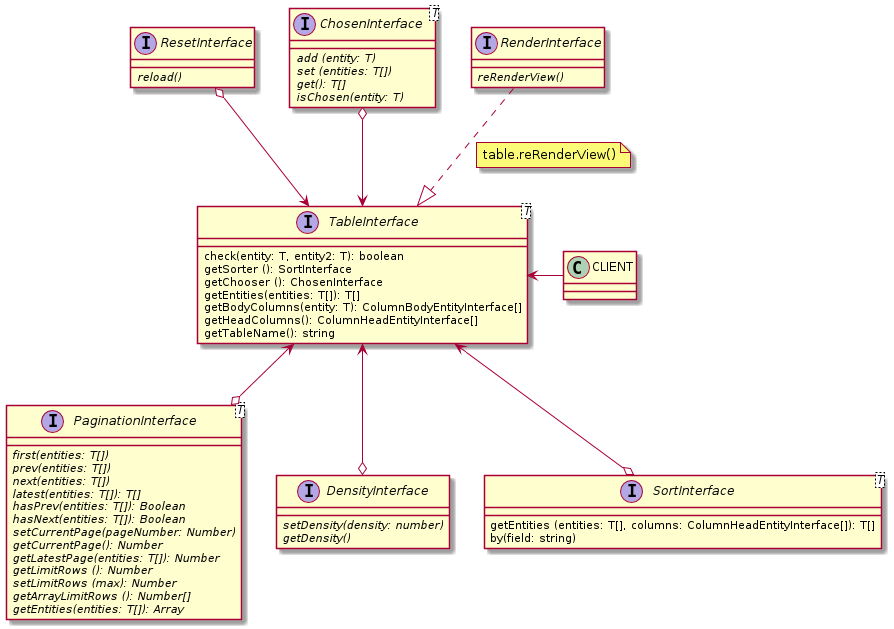
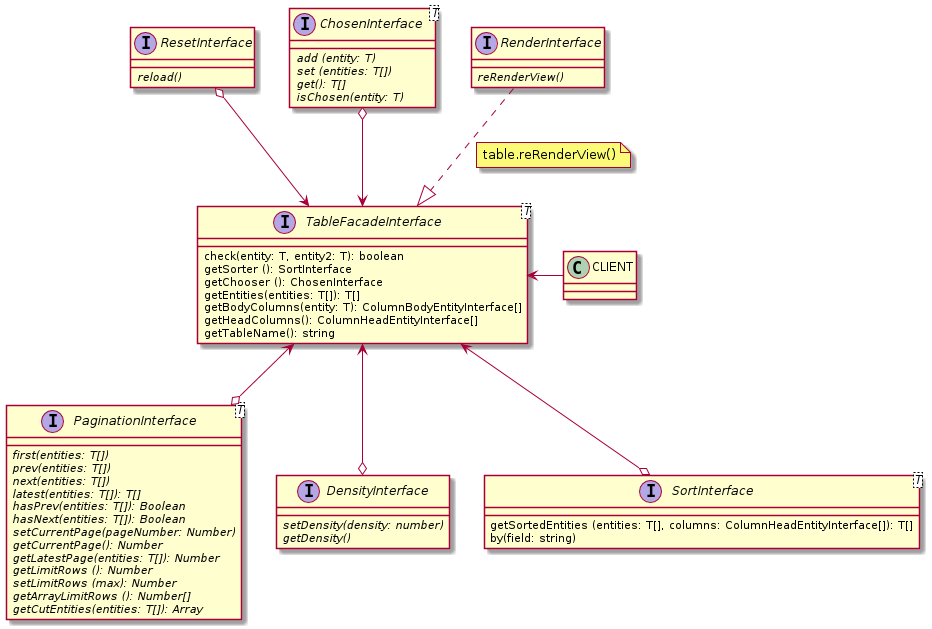
Add RenderManager and fix uml

diff --git a/src/Models/Render/RenderManager.js b/src/Models/Render/RenderManager.js
@@ -1,0 +1,13 @@
+import RenderInterface from './RenderInterface';
+export default class RenderManager extends RenderInterface {
+  /**
+   * @param onRender {Function}
+   */
+  constructor(onRender) {
+    super()
+    this._onRender = onRender
+  }
+  reRenderView() {
+    this._onRender()
+  }
+}
